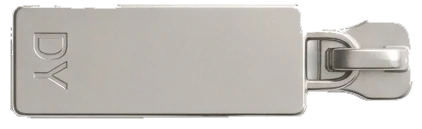
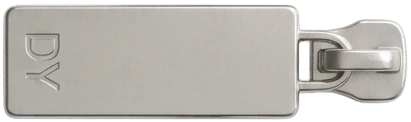
feat: guide slider photos re-cut from the new clean slider.png (white background removed per pixel, holes cleared, no halos, long pulls shortened without width steps); guide picker shows kinds, pulls and colors laid out instead of hidden in pop boxes, with phone color swatches spread evenly

Changed region(s): [[0.0, 0.0246, 0.9927, 0.9836]]

diff --git a/components/ZipperLab.tsx b/components/ZipperLab.tsx
@@ -1,12 +1,11 @@
 'use client'
 
 import { useState } from 'react'
-import { PopBox } from './Picker'
 import ZipperPlay from './ZipperPlay'
 import { DEFAULT_SPEC, KINDS, METALS, PULLS, TAPE_COLORS, fixSpec, isLight, specVars, ZIPPER_ASSET_V, type Spec } from '@/lib/zipperSpec'
 
-// 가이드 맨 위 "직접 골라 보기": 상담 문의 양식처럼 종류 · 슬라이더 두 가지만 고른다.
-//   종류 상자: 지퍼 종류 4가지 + 컬러(테이프) / 슬라이더 상자: 손잡이 6가지 + 컬러(도금 또는 원하는 색)
+// 가이드 맨 위 "직접 골라 보기": 상담 문의 양식처럼 종류 · 슬라이더 두 가지만 고른다(상자에 숨기지 않고 펼쳐 둔다).
+//   종류: 지퍼 종류 4가지 + 컬러(테이프) / 슬라이더: 손잡이 6가지 + 컬러(도금 또는 원하는 색)
 // 고르면 사진으로 만든 지퍼가 바로 바뀐다. 주문용이 아니라 이해를 돕는 보충 자료다(고른 값은 어디로도 보내지 않는다).
 
 const metalBg = (stops: readonly string[]) => `linear-gradient(150deg, ${stops[0]}, ${stops[1]} 45%, ${stops[2]} 80%, ${stops[3]})`
@@ -67,13 +66,16 @@ const Swatches = ({
 const TAPE_SW: Swatch[] = TAPE_COLORS.map((c) => ({ value: c.hex, name: c.name, bg: c.hex, light: isLight(c.hex) }))
 const SLIDER_SW: Swatch[] = METALS.map((m) => ({ value: m.key, name: m.name, bg: metalBg(m.stops), light: m.key === 'silver' }))
 const colorName = (sw: Swatch[], v: string) => sw.find((c) => c.value === v)?.name ?? '직접 고른 컬러'
-const Dot = ({ bg }: { bg: string }) => <span className="pop__dot" style={{ background: bg }} aria-hidden="true" />
 
-const Row = ({ label, children }: { label: string; children: React.ReactNode }) => (
-  <div className="lab__row">
-    <span className="lab__k">{label}</span>
-    <div className="lab__v">{children}</div>
-  </div>
+// 한 묶음(종류 / 슬라이더): 제목 + 지금 고른 것, 그 아래 고를 것들을 모두 펼쳐 둔다
+const Section = ({ label, now, children }: { label: string; now: string; children: React.ReactNode }) => (
+  <section className="lab__sec" aria-label={label}>
+    <div className="lab__head">
+      <span className="lab__k">{label}</span>
+      <span className="lab__now">{now}</span>
+    </div>
+    {children}
+  </section>
 )
 
 const ZipperLab = () => {
@@ -81,9 +83,6 @@ const ZipperLab = () => {
   const set = (patch: Partial<Spec>) => setSpec((s) => fixSpec({ ...s, ...patch }))
   const kind = KINDS.find((k) => k.key === spec.kind)!
   const pull = PULLS.find((p) => p.key === spec.pull)!
-  const tapeName = colorName(TAPE_SW, spec.tape)
-  const sliderName = colorName(SLIDER_SW, spec.slider)
-  const sliderBg = SLIDER_SW.find((c) => c.value === spec.slider)?.bg ?? spec.slider
 
   return (
     <div className="lab" style={specVars(spec) as React.CSSProperties}>
@@ -94,76 +93,52 @@ const ZipperLab = () => {
       </div>
 
       <div className="lab__panel">
-        <Row label="종류">
-          <PopBox
-            label="종류"
-            summary={
-              <>
-                <KindIcon kind={spec.kind} />
-                {kind.label}
-                <span className="pop__sep" aria-hidden="true" />
-                <Dot bg={spec.tape} />
-                {tapeName}
-              </>
-            }
-          >
-            <p className="pop__h">종류</p>
-            <div className="pop__grid pop__grid--4" role="radiogroup" aria-label="종류">
-              {KINDS.map((k) => (
-                <button
-                  key={k.key}
-                  type="button"
-                  role="radio"
-                  aria-checked={spec.kind === k.key}
-                  className="pick__opt"
-                  onClick={() => set({ kind: k.key })}
-                >
-                  <span className="pick__icon">
-                    <KindIcon kind={k.key} />
-                  </span>
-                  <span className="pick__name">{k.label}</span>
-                </button>
-              ))}
-            </div>
-            <p className="pop__h">컬러</p>
+        <Section label="종류" now={`${kind.label} · ${colorName(TAPE_SW, spec.tape)}`}>
+          <div className="lab__opts lab__opts--4" role="radiogroup" aria-label="종류">
+            {KINDS.map((k) => (
+              <button
+                key={k.key}
+                type="button"
+                role="radio"
+                aria-checked={spec.kind === k.key}
+                className="pick__opt"
+                onClick={() => set({ kind: k.key })}
+              >
+                <span className="pick__icon">
+                  <KindIcon kind={k.key} />
+                </span>
+                <span className="pick__name">{k.label}</span>
+              </button>
+            ))}
+          </div>
+          <div className="lab__colors">
+            <span className="lab__ck">컬러</span>
             <Swatches name="lab-tape" label="지퍼 컬러" items={TAPE_SW} value={spec.tape} onPick={(v) => set({ tape: v })} />
-          </PopBox>
-        </Row>
-        <Row label="슬라이더">
-          <PopBox
-            label="슬라이더"
-            summary={
-              <>
-                <PullIcon pull={spec.pull} />
-                {pull.label}
-                <span className="pop__sep" aria-hidden="true" />
-                <Dot bg={sliderBg} />
-                {sliderName}
-              </>
-            }
-          >
-            <p className="pop__h">손잡이</p>
-            <div className="pop__grid" role="radiogroup" aria-label="손잡이">
-              {PULLS.map((p) => (
-                <button
-                  key={p.key}
-                  type="button"
-                  role="radio"
-                  aria-checked={spec.pull === p.key}
-                  className="pick__opt"
-                  onClick={() => set({ pull: p.key })}
-                >
-                  <span className="pick__icon">
-                    <PullIcon pull={p.key} />
-                  </span>
-                  <span className="pick__name">{p.label}</span>
-                </button>
-              ))}
-            </div>
-            <p className="pop__h">컬러</p>
+          </div>
+        </Section>
+        <Section label="슬라이더" now={`${pull.label} · ${colorName(SLIDER_SW, spec.slider)}`}>
+          <div className="lab__opts lab__opts--6" role="radiogroup" aria-label="손잡이">
+            {PULLS.map((p) => (
+              <button
+                key={p.key}
+                type="button"
+                role="radio"
+                aria-checked={spec.pull === p.key}
+                className="pick__opt"
+                onClick={() => set({ pull: p.key })}
+              >
+                <span className="pick__icon">
+                  <PullIcon pull={p.key} />
+                </span>
+                <span className="pick__name">{p.label}</span>
+              </button>
+            ))}
+          </div>
+          <div className="lab__colors">
+            <span className="lab__ck">컬러</span>
             <Swatches name="lab-slider" label="슬라이더 컬러" items={SLIDER_SW} value={spec.slider} onPick={(v) => set({ slider: v })} />
-          </PopBox>
-        </Row>
+          </div>
+        </Section>
       </div>
     </div>
   )

diff --git a/app/globals.css b/app/globals.css
@@ -2835,22 +2835,60 @@ select {
 .lab__panel {
   border-top: 2px solid var(--ink);
 }
-.lab__row {
+/* 종류 · 슬라이더: 고를 것들을 펼쳐 둔다(제목 + 지금 고른 것 → 사진 선택지 → 컬러) */
+.lab__sec {
   display: grid;
-  grid-template-columns: 4.5rem minmax(0, 1fr);
-  align-items: center;
-  gap: 1rem;
-  min-height: 3.5rem;
-  padding: 0.45rem 0;
+  gap: 0.7rem;
+  padding: 0.9rem 0 1rem;
   border-bottom: 1px solid var(--line);
+}
+.lab__head {
+  display: flex;
+  align-items: baseline;
+  gap: 0.6rem;
 }
 .lab__k {
   font-size: 0.92rem;
   font-weight: 700;
 }
-.lab__v {
-  position: relative;
+.lab__now {
   min-width: 0;
+  font-size: 0.84rem;
+  color: var(--muted);
+}
+.lab__opts {
+  display: grid;
+  grid-template-columns: repeat(4, minmax(0, 1fr));
+  gap: 0.4rem;
+}
+.lab__opts--6 {
+  grid-template-columns: repeat(6, minmax(0, 1fr));
+}
+.lab__panel .pick__opt {
+  padding: 0.5rem 0.25rem 0.45rem;
+  .pick__icon {
+    height: 3rem;
+  }
+  .pick__photo {
+    height: 3rem;
+  }
+  .pick__photo--kind {
+    height: auto;
+  }
+  .pick__name {
+    font-size: 0.82rem;
+  }
+}
+.lab__colors {
+  display: flex;
+  align-items: center;
+  gap: 0.75rem;
+}
+.lab__ck {
+  flex: none;
+  font-size: 0.78rem;
+  font-weight: 700;
+  color: var(--muted);
 }
 .lab__swatches {
   gap: 0.45rem;
@@ -3074,9 +3112,26 @@ select {
   }
 }
 @media (max-width: 480px) {
-  .lab__row {
-    grid-template-columns: 3.75rem minmax(0, 1fr);
-    gap: 0.6rem;
+  .lab__opts {
+    gap: 0.3rem;
+  }
+  .lab__opts--6 .pick__name {
+    font-size: 0.74rem;
+  }
+  /* 컬러: 제목은 위로, 견본은 줄 끝까지 고르게 퍼지게(10개인 테이프 컬러는 5개씩 두 줄) */
+  .lab__colors {
+    display: grid;
+    gap: 0.5rem;
+    .swatches {
+      display: grid;
+      grid-auto-flow: column;
+      justify-content: space-between;
+      gap: 0.6rem 0;
+    }
+    .swatches:has(> :nth-child(7)) {
+      grid-auto-flow: row;
+      grid-template-columns: repeat(5, auto);
+    }
   }
   .seg2__btn {
     font-size: 0.84rem;
@@ -4449,7 +4504,8 @@ html:has(.gal__dlg[open]) {
 .pop__grid--4 {
   grid-template-columns: repeat(4, minmax(0, 1fr));
 }
-.pop .pick__opt {
+.pop .pick__opt,
+.lab__panel .pick__opt {
   align-content: center;
   border-color: var(--line);
   background: var(--bg);

diff --git a/lib/zipperParts.ts b/lib/zipperParts.ts
@@ -11,10 +11,10 @@ export const STRIP = {
 // 손잡이별 슬라이더 사진(원본 그대로 한 장: 몸통 + 손잡이): 그림 단위 자리·크기(y 는 가운데 줄 기준),
 // metal 손잡이가 금속인지, mz 끈·가죽·러버 사진에서 몸통·금속 고리 쪽(오른쪽 끝부터) 폭(px) — 여기만 슬라이더 색
 export const PULL_PHOTO = {
-  tab: { x: -195.4, y: -42.3, w: 275.4, h: 84.6, metal: true, mz: 0 },
-  plate: { x: -299.8, y: -58.05, w: 379.8, h: 116.1, metal: true, mz: 0 },
-  ring: { x: -159.4, y: -72.45, w: 239.4, h: 144.9, metal: true, mz: 0 },
-  cord: { x: -405.1, y: -43.65, w: 485.1, h: 87.3, metal: false, mz: 174 },
-  leather: { x: -404.2, y: -67.5, w: 484.2, h: 135.0, metal: false, mz: 186 },
-  rubber: { x: -406.0, y: -48.15, w: 486.0, h: 96.3, metal: false, mz: 174 },
+  tab: { x: -186.4, y: -41.85, w: 266.4, h: 82.8, metal: true, mz: 0 },
+  plate: { x: -289.9, y: -54.9, w: 369.9, h: 109.8, metal: true, mz: 0 },
+  ring: { x: -151.3, y: -69.3, w: 231.3, h: 143.1, metal: true, mz: 0 },
+  cord: { x: -397.9, y: -40.5, w: 477.9, h: 81.0, metal: false, mz: 165 },
+  leather: { x: -409.6, y: -60.3, w: 489.6, h: 119.7, metal: false, mz: 175 },
+  rubber: { x: -388.9, y: -44.55, w: 468.9, h: 89.1, metal: false, mz: 177 },
 } as const

diff --git a/lib/zipperSpec.ts b/lib/zipperSpec.ts
@@ -132,4 +132,4 @@ export const specVars = (s: Spec): Record<string, string> => {
 export const sizeScale = (size: number) => ({ 3: 0.74, 5: 1, 8: 1.28, 10: 1.48 })[size] ?? 1
 
 // public/zipper 그림을 다시 만들 때마다 올린다(브라우저에 남은 옛 그림을 쓰지 않게 주소 뒤에 ?v= 로 붙인다)
-export const ZIPPER_ASSET_V = 7
+export const ZIPPER_ASSET_V = 8
